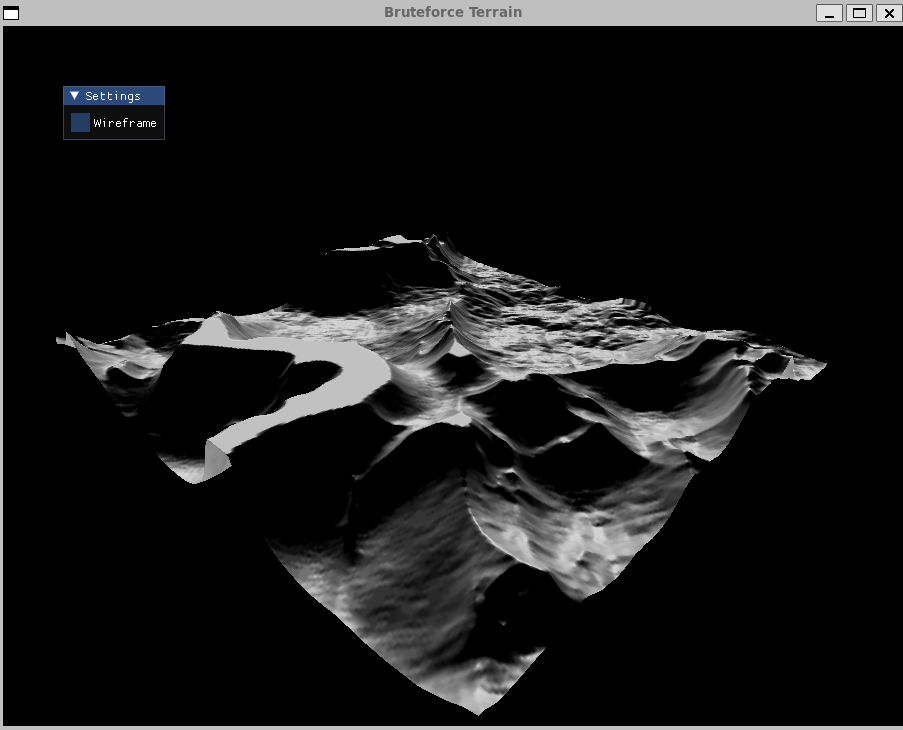
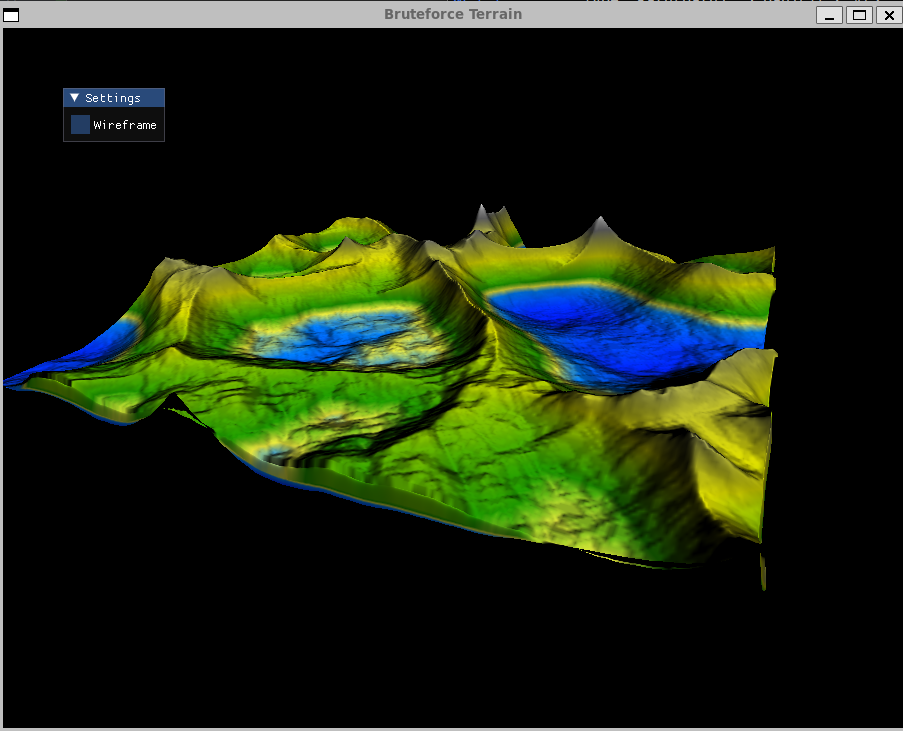
Squashed commit of the following:
commit 6f936c48040cb9bbafe4e73551a9fb8063e1c523
Author: Casimir Platzer <casimir.benjamin.platzer@alumni.bfh.ch>
Date:   Fri Mar 10 08:13:05 2023 +0100

    - Color terrain
    - Improve terrain generation to look more realistic
    - Update documentation image

diff --git a/src/bin/bruteforce_terrain.rs b/src/bin/bruteforce_terrain.rs
@@ -207,19 +207,26 @@ fn main() -> Result<()> {
 fn initialize_terrain(width: usize, height: usize) -> Result<Texture> {
     let mut image_data = Vec::<u8>::with_capacity(width * height * 4);
 
-    let mountain_terrain = RidgedMulti::<Perlin>::default().set_frequency(2.5);
+    let base_mountain_terrain = RidgedMulti::<Perlin>::default()
+        .set_frequency(2.5)
+        .set_attenuation(1.2)
+        .set_persistence(0.5)
+        .set_lacunarity(1.8);
+    let mountain_terrain = ScaleBias::new(base_mountain_terrain)
+        .set_scale(1.0)
+        .set_bias(0.5);
     let base_flat_terrain = Billow::<Perlin>::default().set_frequency(2.0);
     let flat_terrain = ScaleBias::new(base_flat_terrain)
         .set_scale(0.125)
-        .set_bias(-0.75);
-    let noise = Select::new(mountain_terrain, flat_terrain, Perlin::default()).set_falloff(0.5);
+        .set_bias(0.25);
+    let noise = Select::new(mountain_terrain, flat_terrain, Perlin::default()).set_falloff(0.8);
 
     for y in 0..height {
         for x in 0..width {
             let x = x as f64 / width as f64;
             let y = y as f64 / height as f64;
             let height = (1.0 + noise.get([x, y])) / 2.0;
-            image_data.push((height * 512.0) as u8);
+            image_data.push((height * 256.0) as u8);
             image_data.push(0);
             image_data.push(0);
             image_data.push(0);
